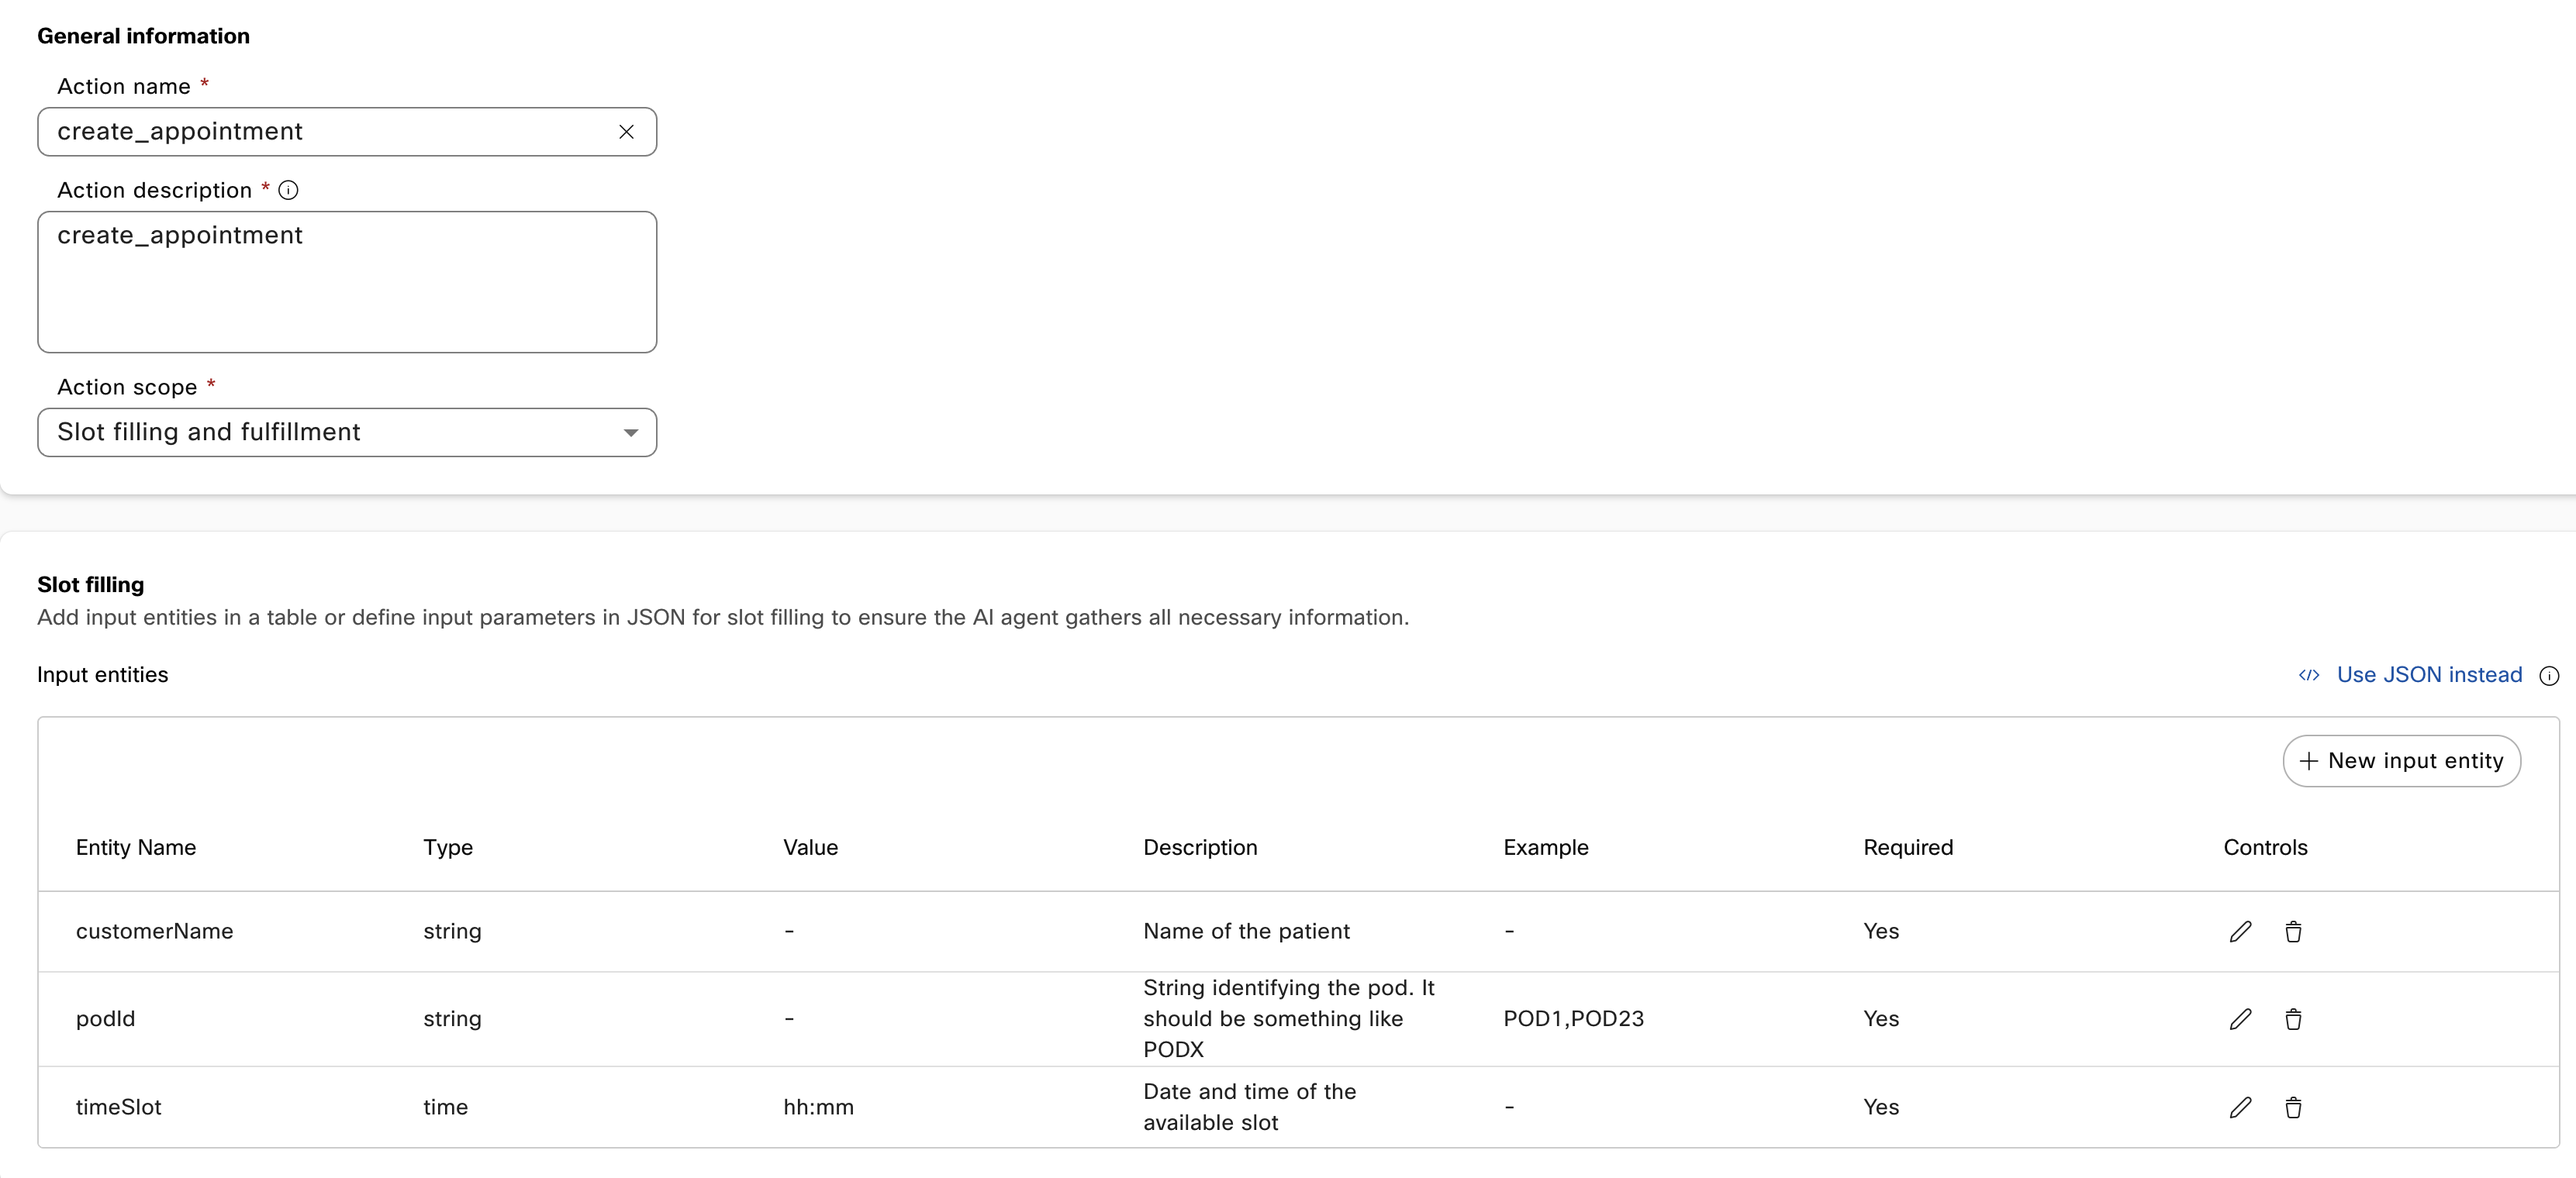
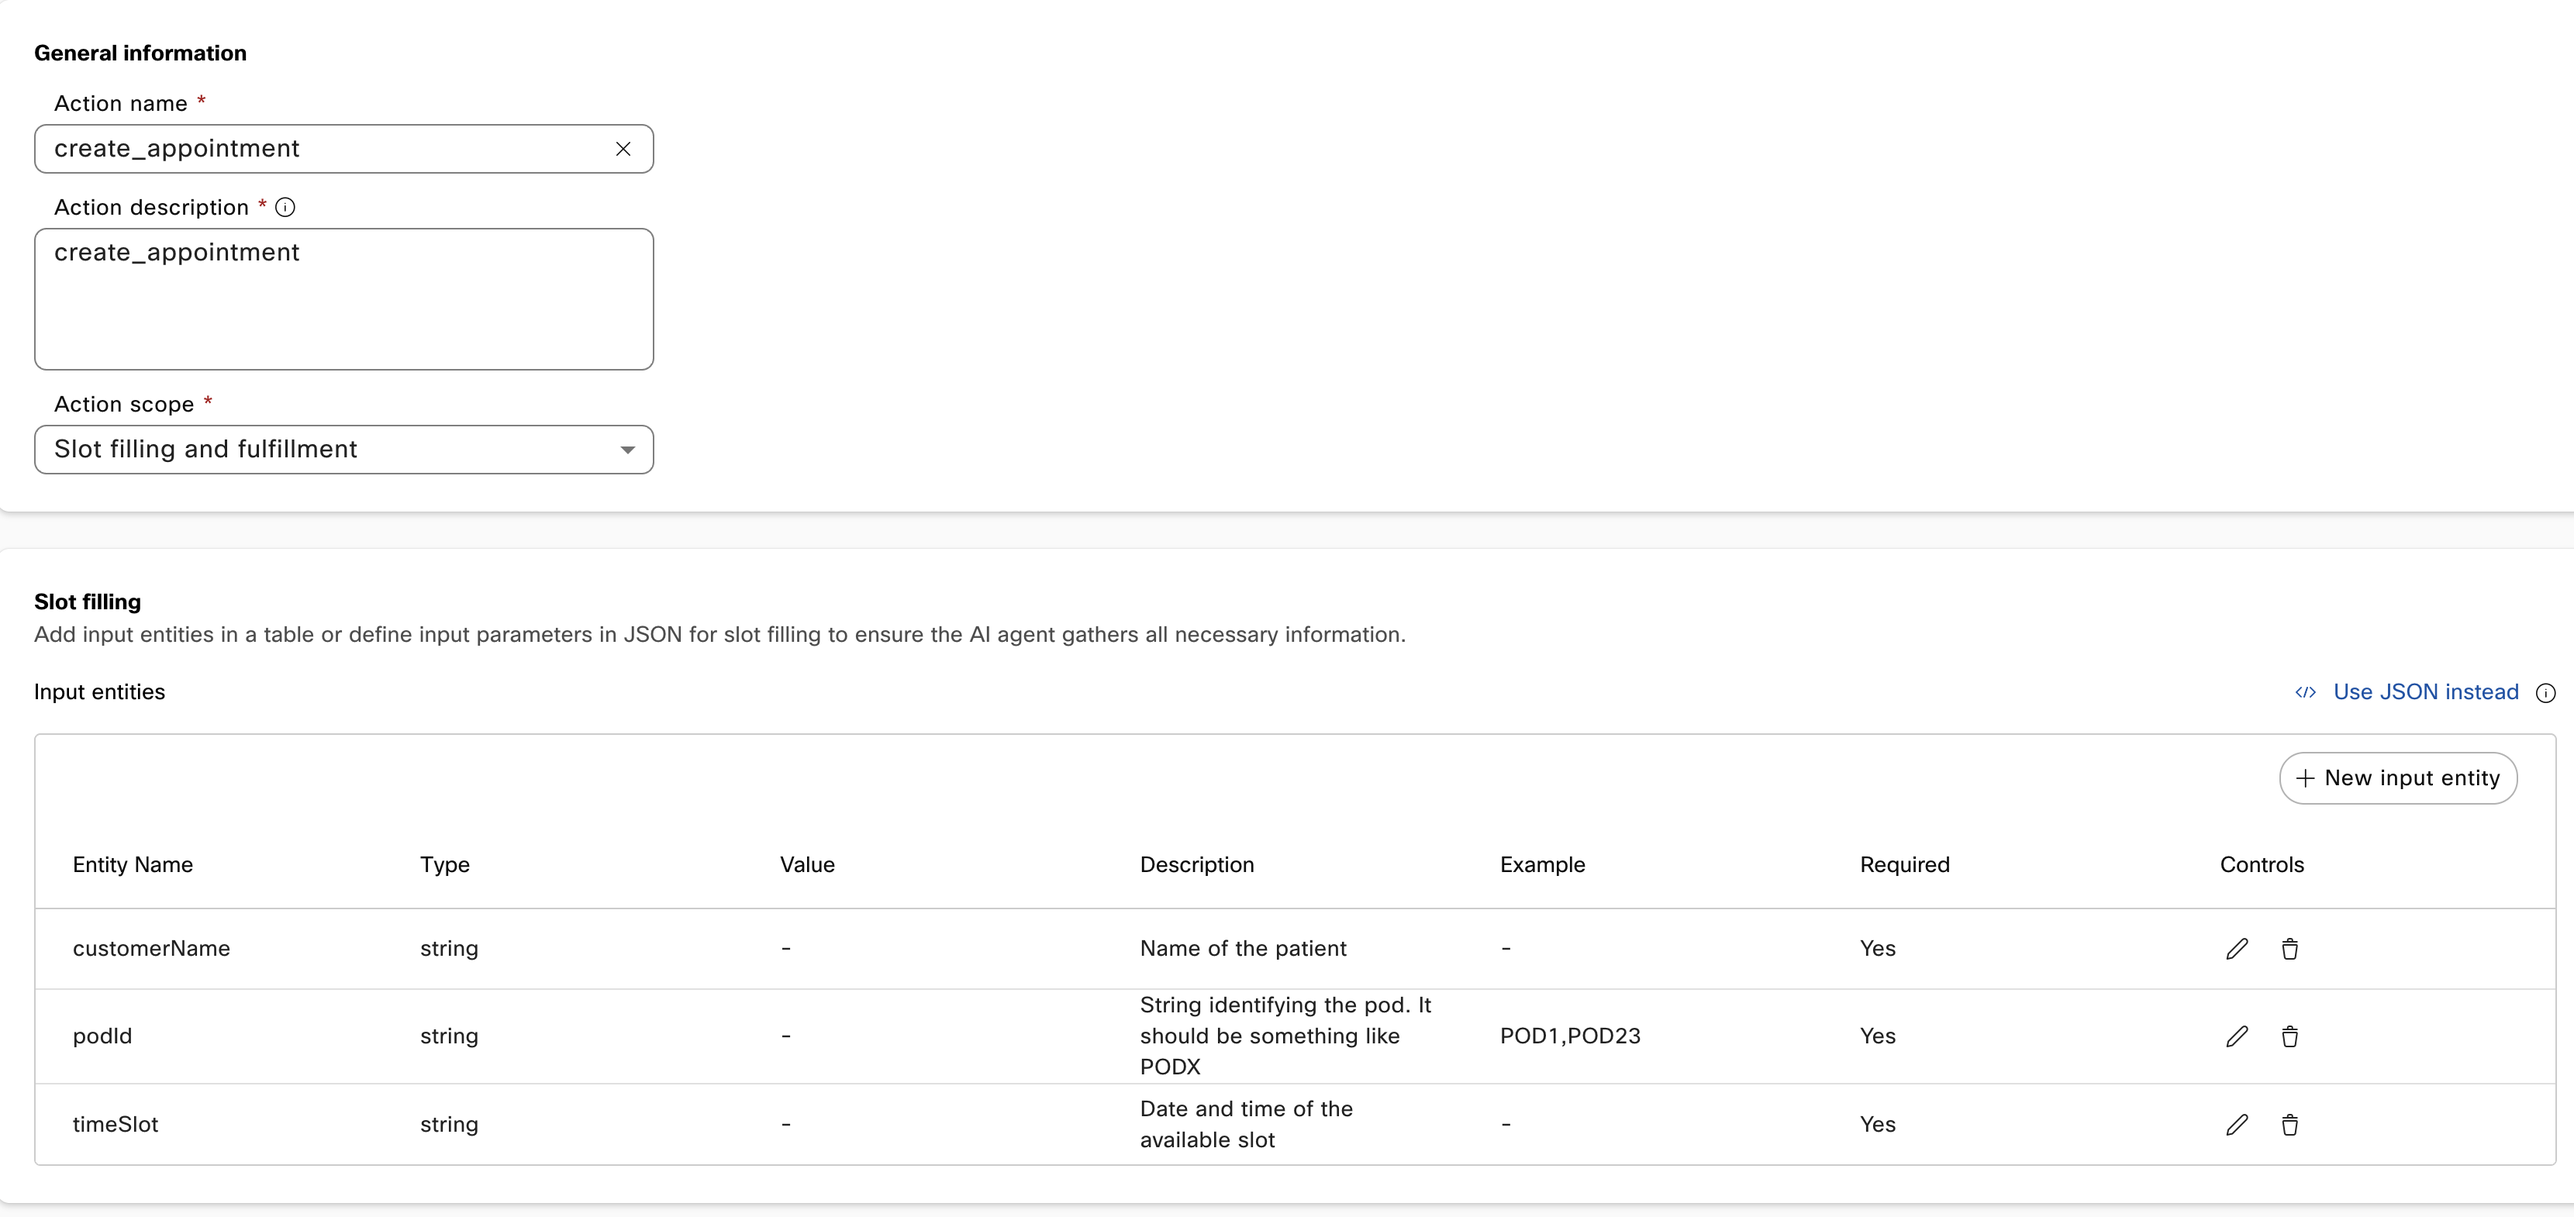
timeslot back to string

diff --git a/docs/04-ai-agent-create.md b/docs/04-ai-agent-create.md
@@ -223,14 +223,10 @@ In this section, you will learn how to set up your agent to perform powerful act
         ```
         timeSlot
         ```
-    - **Entity Type:** _Time_
+    - **Entity Type:** _String_
     - **Entity Description**
         ```
         Date and time of the available slot
-        ```
-    - **Value**
-        ```
-        hh:mm
         ```
     
     The field **Required** should be _Yes_, click **Add** to finish the input setup
